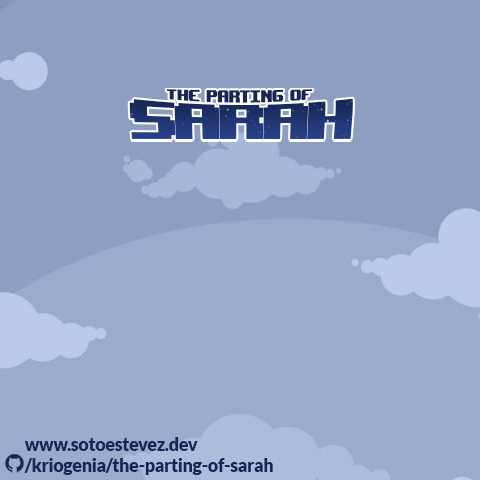
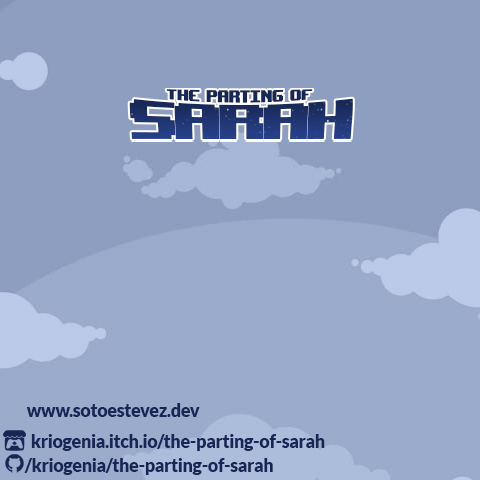
Add itchio to menu background

Changed region(s): [[0.0, 0.875, 0.6875, 0.9375], [0.0625, 0.8438, 0.4375, 0.875]]

diff --git a/ThePartingOfSarah/Player.cpp b/ThePartingOfSarah/Player.cpp
@@ -24,7 +24,7 @@ Player::Player(float x, float y, int* mouseX, int* mouseY, int* scrollX, int* sc
 	this->projectileFile = PLAYER_PROJECTILE_FILE;
 	// Debugging
 	print();
-	this->attack = 5;
+	//this->attack = 5;
 	//this->speed = 5;
 	// Cooldowns initialization
 	this->invulnerabilityTime = 0;
